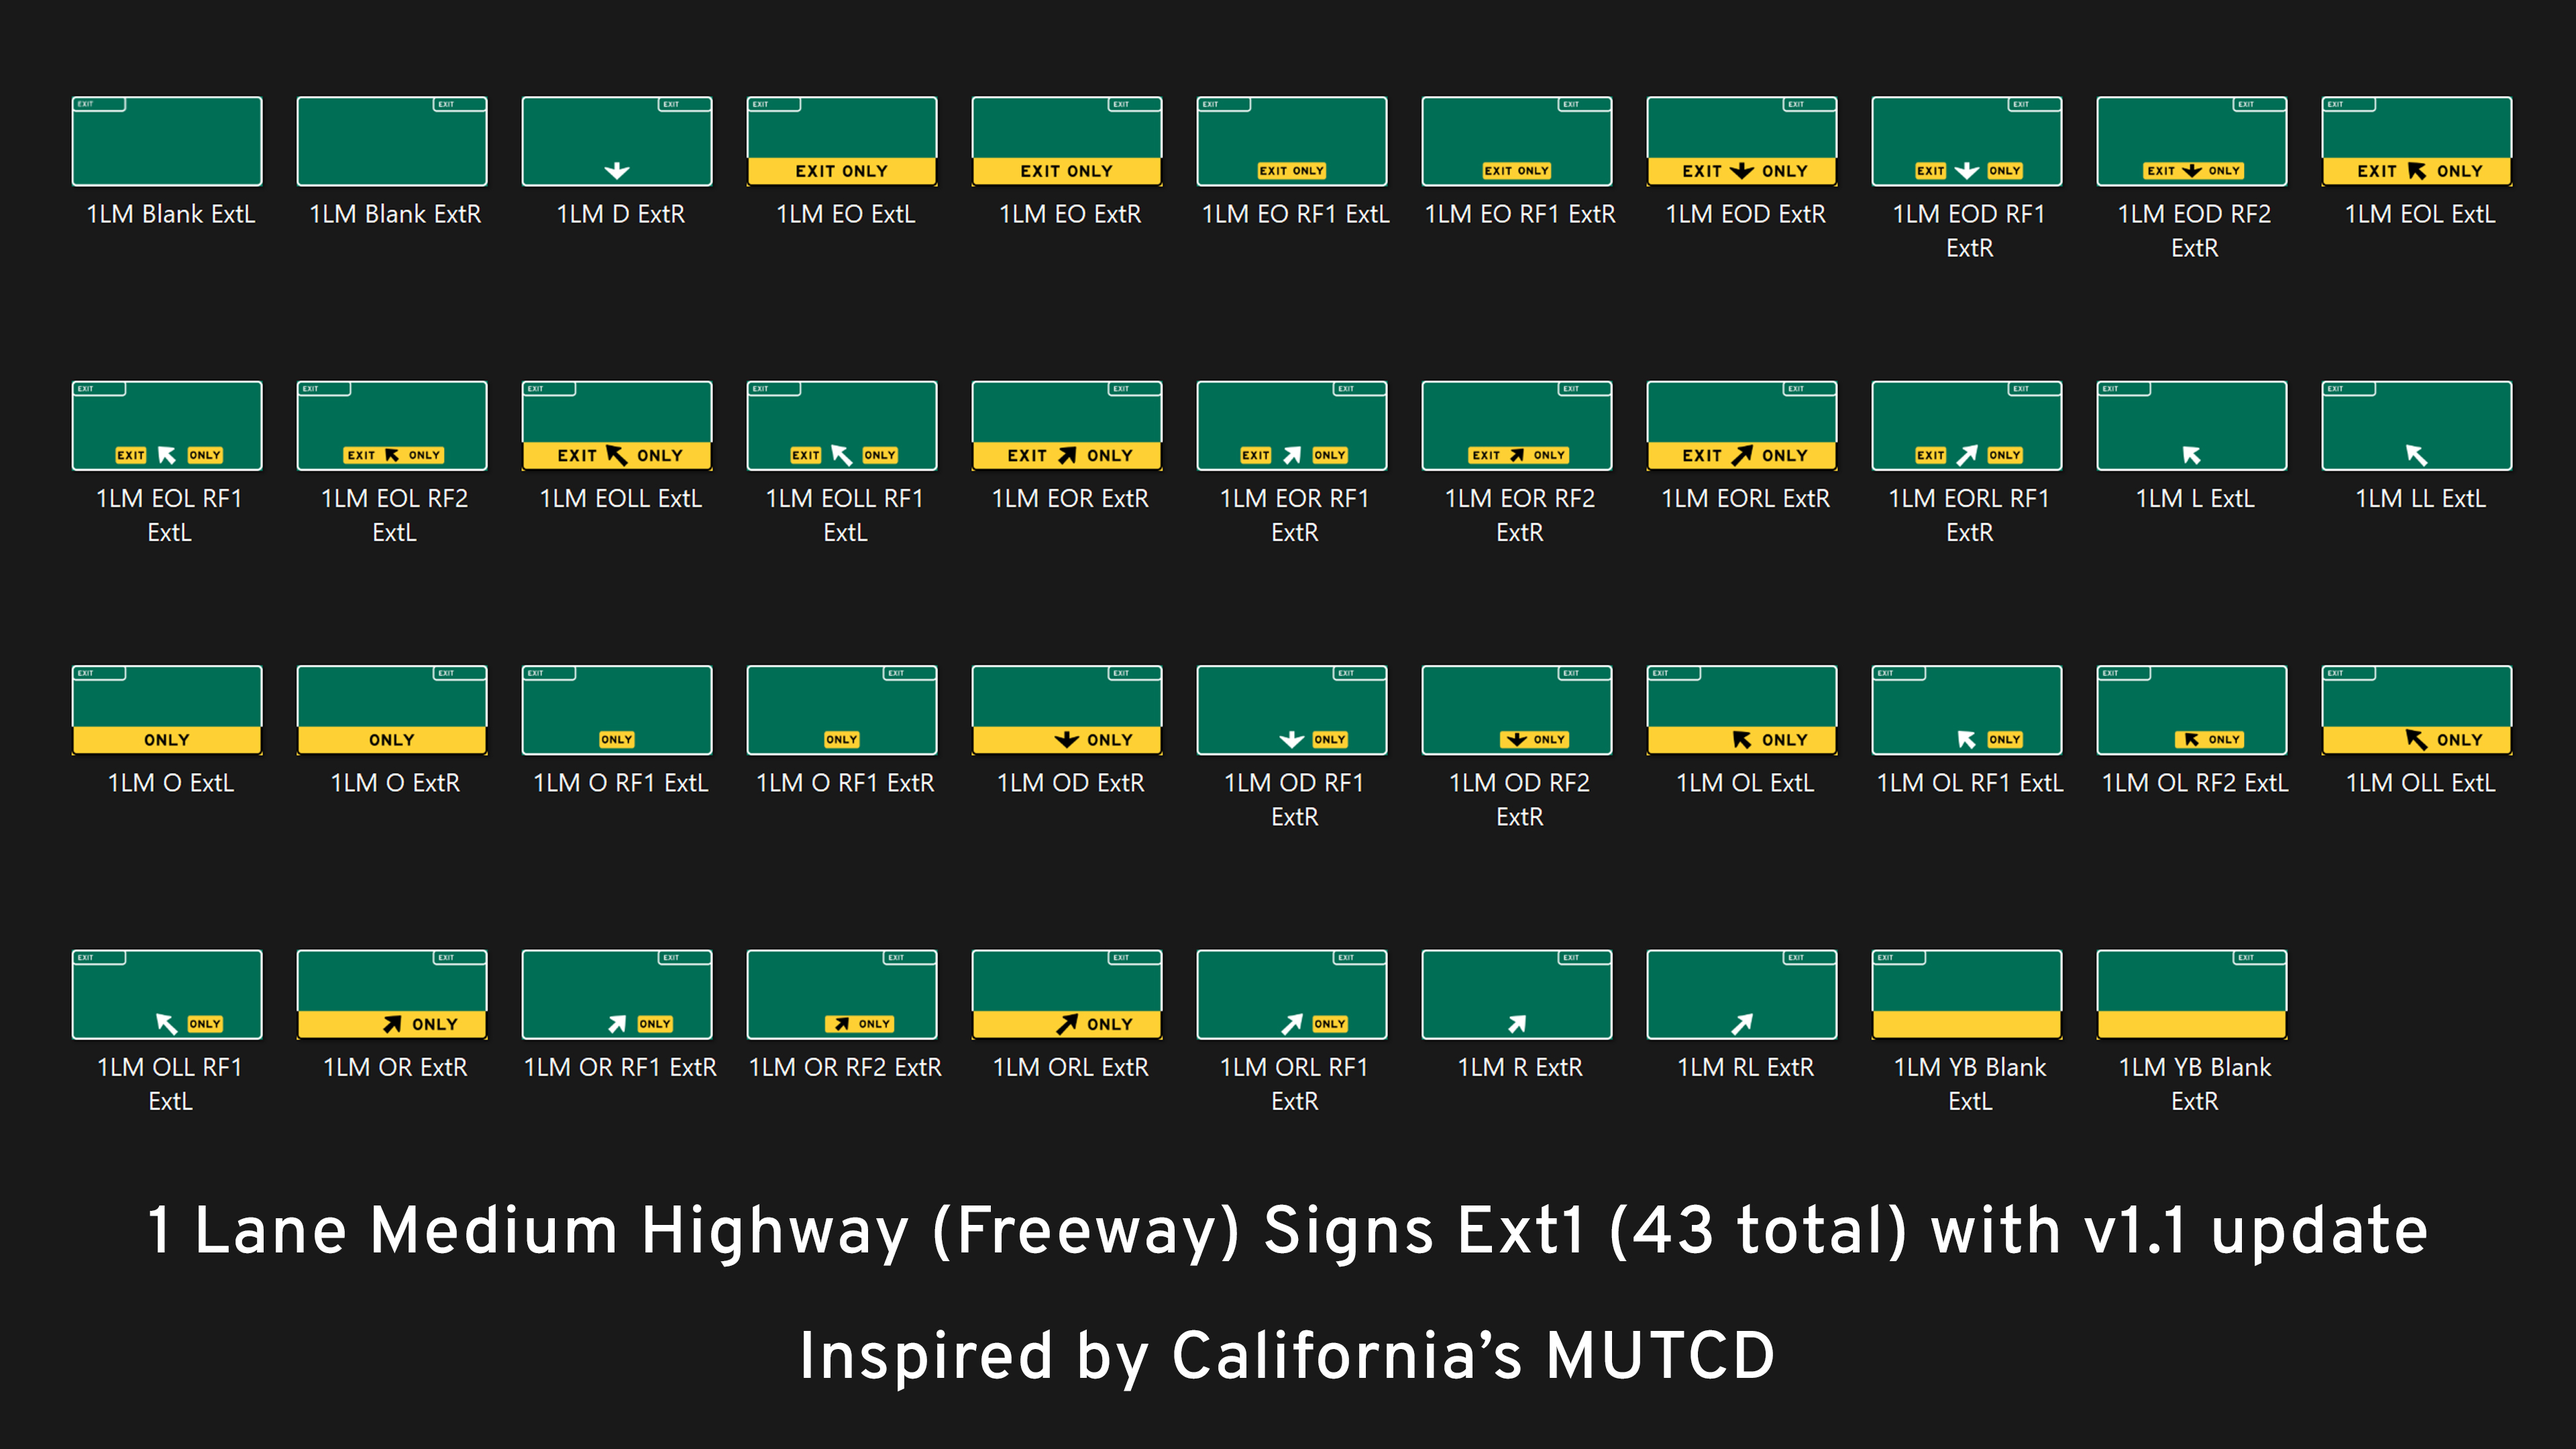
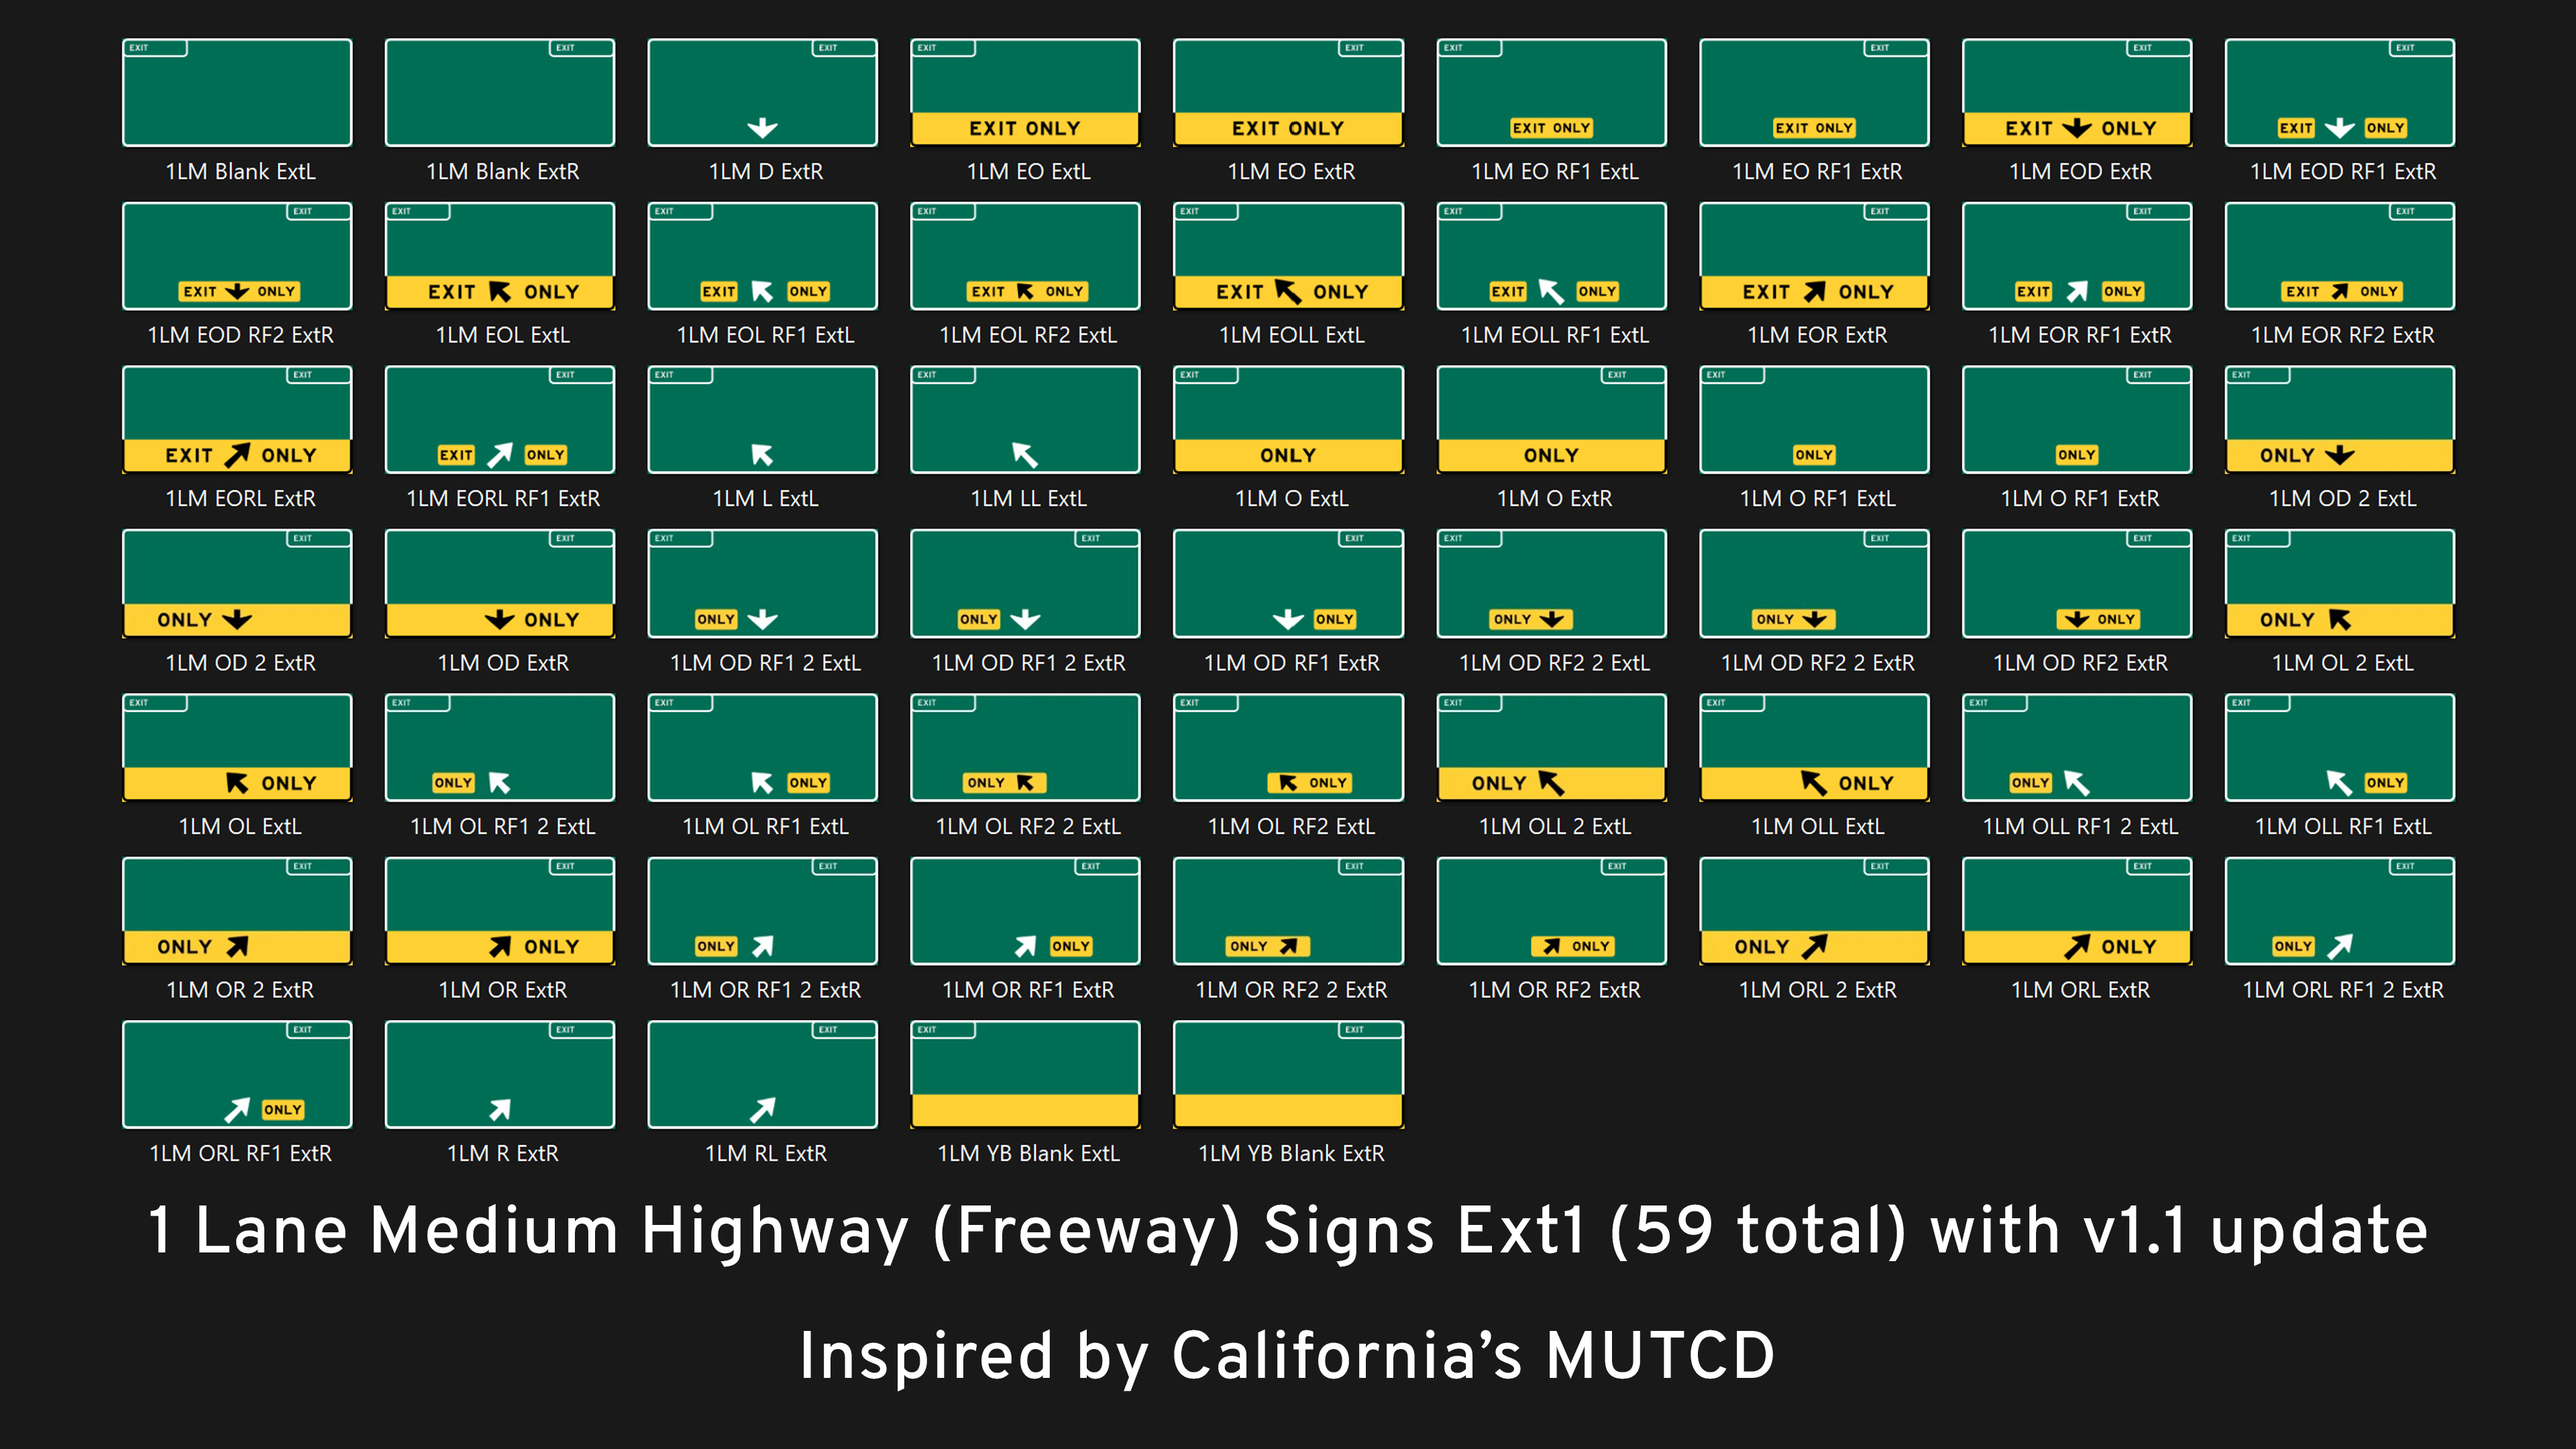
Added missing signs.

diff --git a/_BaseModule/README.md b/_BaseModule/README.md
@@ -5,8 +5,8 @@ Hello Cities: Skylines II civil engineers! This is a **Write Everywhere Module**
 ## Features
 
 - 1 Lane (Medium) California Highway (Freeway) signs inspired by California's MUTCD
-- 37 total signs (see screenshots)
-- Additional 41 new signs with exit tab style 1 with Ext1 WE atlas pack (with v1.1 update)
+- 50 total signs (see screenshots)
+- Additional 59 new signs with exit tab style 1 with Ext1 WE atlas pack (with v1.1 update)
 - WE Layout included for easy implementation onto your highways (freeways)
 
 ## How to Use
@@ -77,4 +77,7 @@ No fonts included. Any True-Type font (.ttf) can be used with these signs. I per
 ##  Special Thanks
 - To Klyte45 for the WriteEverywhere Mod!
 - To UnMaestro for the help and WE Module template!
+
+##  More signs?
+- Check out my profile for more of my signs and subscribe for the latest releases!
 

diff --git a/_BaseModule/changelog.md b/_BaseModule/changelog.md
@@ -1,2 +1,4 @@
-# v1.1
-- Adds additional 41 new 1LM CA Highway signs with California Exit Tab Style 1 with Ext1 WE atlas pack.
+# v1.0.2
+- Added missing 1LM OD 2, 1LM OD RF1 2, 1LM OD RF2 2, 1LM OL 2, 1LM OL RF1 2, 1LM OL RF2 2, 1LM OLL 2, 1LM OLL RF1 2, 1LM OR 2, 1LM OR RF1 2, 1LM OR RF2 2, 1LM ORL 2, and 1LM ORL RF1 2 signs.
+- Added missing 1LM OD 2 ExtR, 1LM OD RF1 2 ExtR, 1LM OD RF2 2 ExtR, 1LM OR RF1 2 ExtR, 1LM OR RF2 2 ExtR, 1LM ORL 2 ExtR, and 1LM ORL RF1 2 ExtR signs.
+- Added missing 1LM OD 2 ExtL, 1LM OD RF1 2 ExtL, 1LM OD RF2 2 ExtL, 1LM OL 2 ExtL, 1LM OL RF1 2 ExtL, 1LM OL RF2 2 ExtL, 1LM OLL 2 ExtL, and 1LM OLL RF1 2 ExtL signs.
